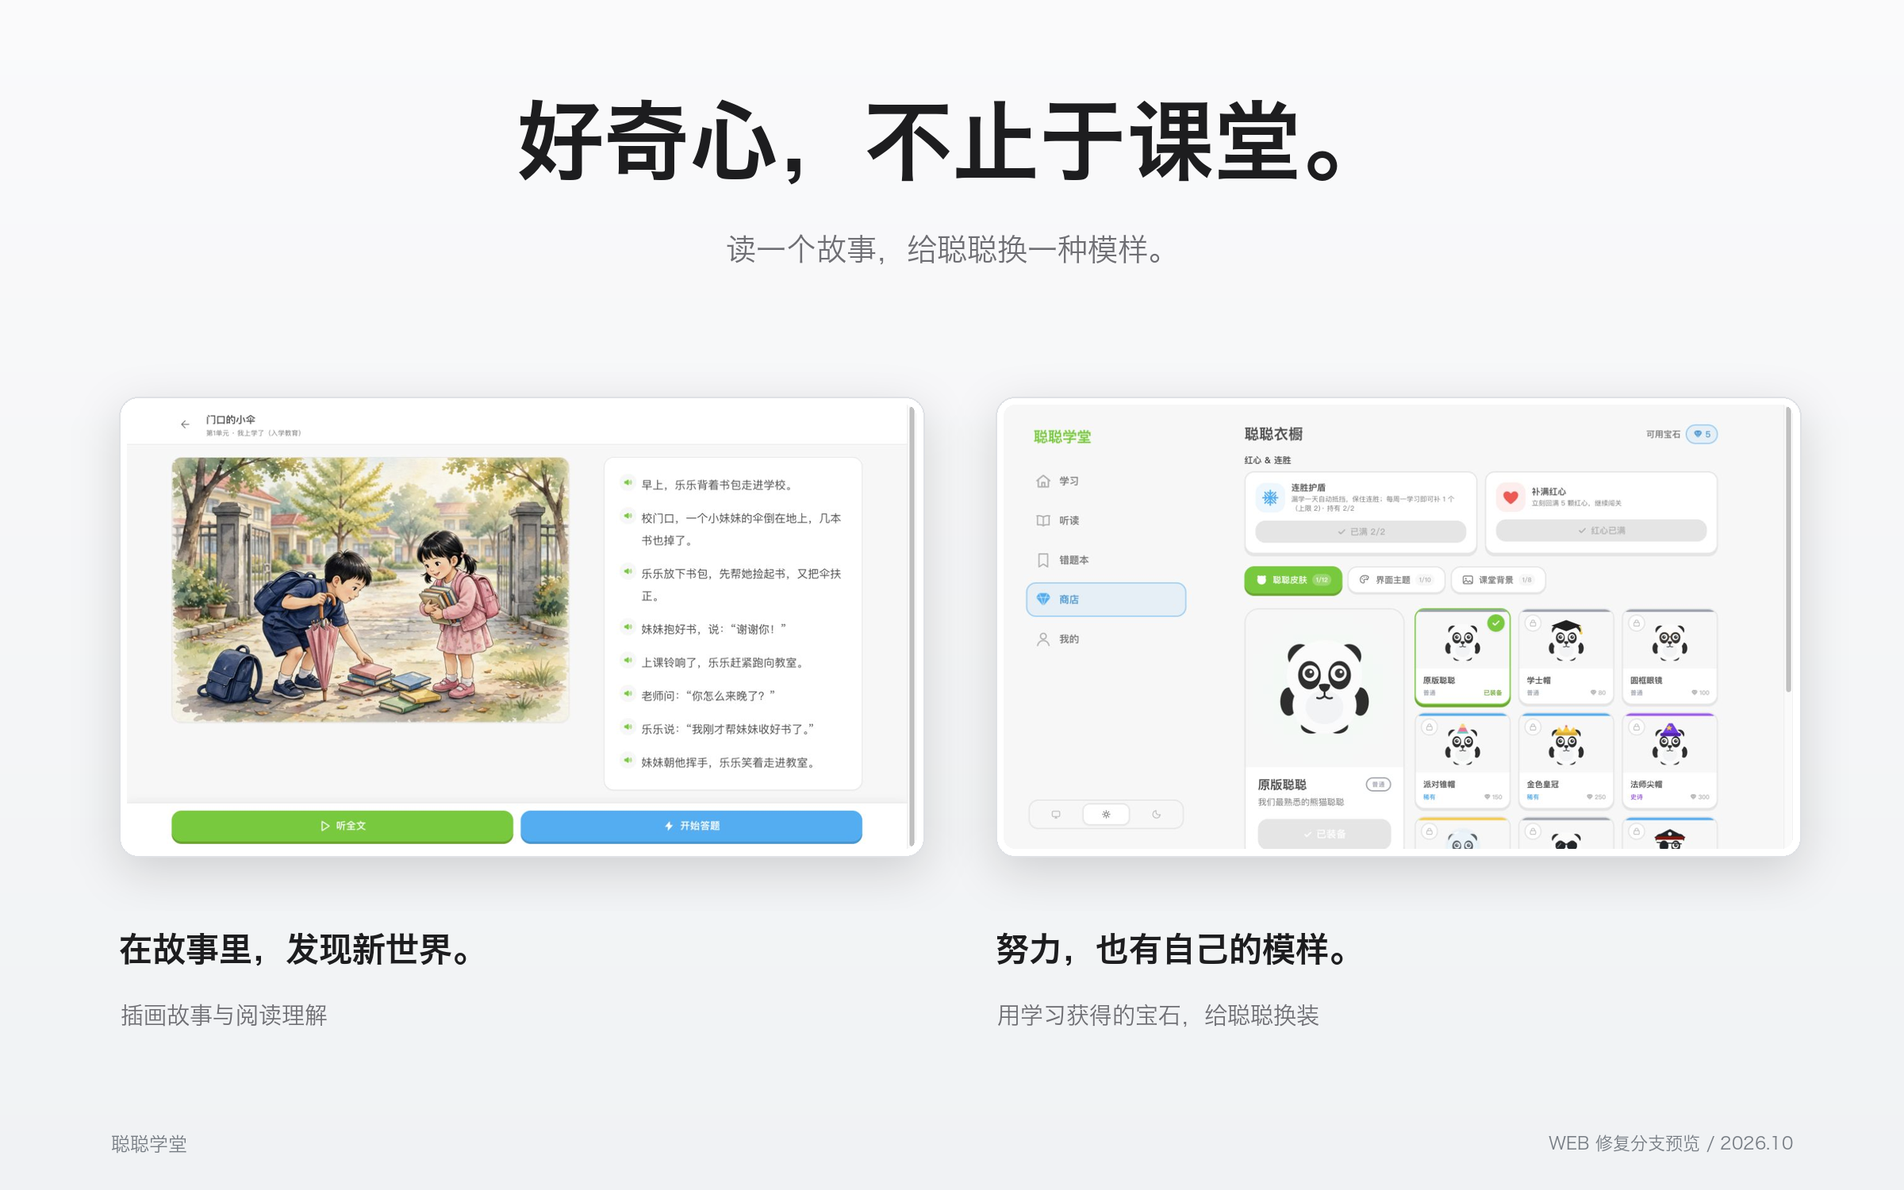
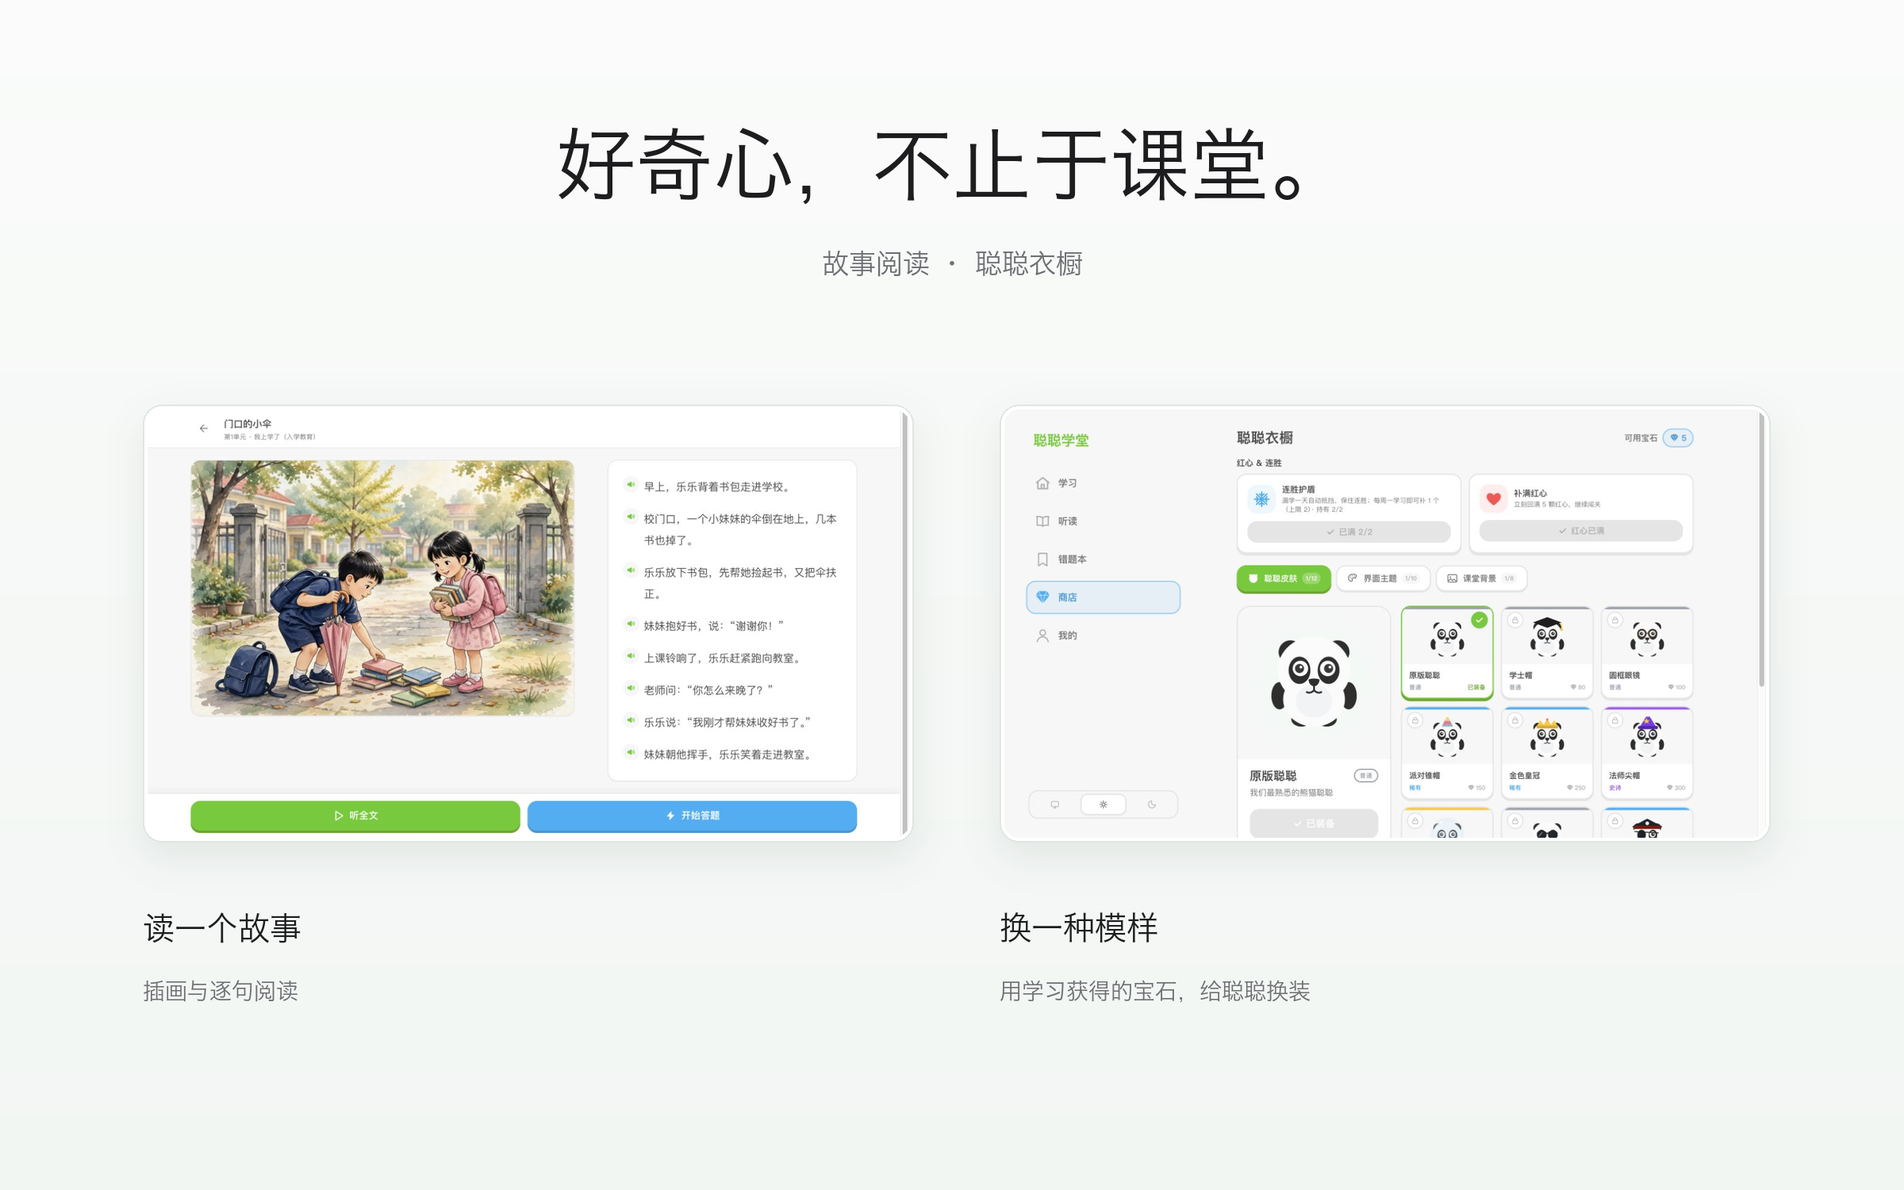
docs: refine all product posters with a light minimal design

diff --git a/docs/web-showcase.html b/docs/web-showcase.html
@@ -4,14 +4,14 @@
 :root{--paper:#f5f5f7;--ink:#1d1d1f;--muted:#6e6e73;--line:#e4e4e8}*{box-sizing:border-box}body{margin:0;background:#fff;color:var(--ink);font:16px/1.75 -apple-system,BlinkMacSystemFont,"PingFang SC","Microsoft YaHei",sans-serif;-webkit-font-smoothing:antialiased}a{color:inherit;text-underline-offset:4px}button{font:inherit;cursor:pointer}button:focus-visible,a:focus-visible{outline:3px solid #527c39;outline-offset:5px}.wrap{max-width:1256px;margin:auto;padding:0 36px}header{display:flex;align-items:center;justify-content:space-between;gap:24px;min-height:88px;font-size:13px}.brand{font-weight:650;letter-spacing:.04em}nav{display:flex;gap:28px}nav a{text-decoration:none;color:var(--muted)}.intro{padding-top:62px;padding-bottom:36px}.eyebrow{font-size:11px;letter-spacing:.18em;color:var(--muted);font-weight:650}h1{font-size:clamp(36px,5.5vw,64px);line-height:1.2;letter-spacing:-.045em;font-weight:650;margin:18px 0}h2{font-size:clamp(30px,4vw,48px);line-height:1.3;letter-spacing:-.035em;font-weight:650;margin:12px 0 16px}h3{font-size:19px;line-height:1.4;font-weight:600;margin:20px 0 7px}.lede{color:var(--muted);font-size:18px;margin:0}.poster{margin:0 0 72px}.image-button{display:block;border:0;padding:0;background:var(--paper);width:100%;border-radius:20px;overflow:hidden;line-height:0}.image-button img{display:block;width:100%;height:auto}.poster figcaption{display:flex;align-items:center;justify-content:space-between;gap:20px;font-size:13px;color:var(--muted);padding-top:16px}.poster figcaption strong{font-weight:500;color:var(--ink)}.poster figcaption a{font-size:12px}.section{padding-top:70px}.phones{display:grid;grid-template-columns:repeat(3,1fr);gap:24px;margin:38px 0 70px}.phone{margin:0;background:var(--paper);border-radius:22px;padding:30px;text-align:center}.phone .image-button{background:transparent;border-radius:16px}.phone img{width:auto;max-width:100%;height:440px;object-fit:contain;margin:auto;border-radius:16px}.phone p,.card p{font-size:14px;color:var(--muted);margin:0}.grid{display:grid;grid-template-columns:1fr 1fr;gap:48px 28px}.card{margin:0}.card .image-button{border:1px solid var(--line);border-radius:16px}.card img{aspect-ratio:1265/712;object-fit:contain}.about{margin-top:96px;border-top:1px solid var(--line);padding:36px 0 52px;font-size:13px;color:var(--muted)}.about p{max-width:850px}.about strong{color:var(--ink)}footer{padding:24px 0 34px;border-top:1px solid var(--line);display:flex;justify-content:space-between;gap:20px;font-size:12px;color:var(--muted)}dialog{border:0;background:#fff;color:var(--ink);border-radius:18px;padding:20px;max-width:min(96vw,1700px);max-height:95vh;box-shadow:0 24px 100px #0004}dialog::backdrop{background:#0d0e11cc}dialog .bar{display:flex;align-items:center;justify-content:space-between;gap:24px;margin-bottom:16px;font-size:14px}dialog p{margin:0}dialog button{border:1px solid var(--line);border-radius:10px;background:var(--paper);padding:7px 16px;min-height:44px}dialog img{display:block;max-width:100%;max-height:80vh;object-fit:contain;margin:auto}
 @media(max-width:720px){.wrap{padding-left:22px;padding-right:22px}header{min-height:74px;font-size:12px;gap:10px}nav{gap:16px}.brand{letter-spacing:0}.intro{padding-top:34px;padding-bottom:28px}.lede{font-size:16px}.poster{margin-bottom:40px}.poster .image-button{border-radius:12px}.poster figcaption{font-size:11px;padding-top:11px}.poster figcaption a{font-size:11px}.section{padding-top:34px}.phones{grid-template-columns:1fr;gap:16px;margin-bottom:50px}.phone{display:grid;grid-template-columns:1fr 1fr;gap:20px;padding:22px;text-align:left;align-items:center}.phone img{width:100%;height:auto;max-height:350px}.phone h3{margin-top:0;font-size:18px}.phone p{font-size:13px}.grid{grid-template-columns:1fr;gap:32px}.about{margin-top:60px}footer{display:block}footer span{display:block;margin:8px 0}}
 </style></head><body>
-<header class="wrap"><span class="brand">聪聪学堂 / CHINASTUDYFREE</span><nav aria-label="页面导航"><a href="#posters">海报</a><a href="#screens">界面</a><a href="#about">关于</a></nav></header>
-<main class="wrap"><div class="intro"><div class="eyebrow">THE PRODUCT COLLECTION</div><h1>好奇心，自有天地。</h1><p class="lede">聪聪学堂。小学全科，免费开源。</p></div><section id="posters" aria-label="产品海报">
+<header class="wrap"><span class="brand">聪聪学堂</span><nav aria-label="页面导航"><a href="#posters">海报</a><a href="#screens">界面</a><a href="#about">关于</a></nav></header>
+<main class="wrap"><div class="intro"><h1>好奇心，自有天地。</h1><p class="lede">聪聪学堂。小学全科，免费开源。</p></div><section id="posters" aria-label="产品海报">
 <figure class="poster"><button class="image-button" data-title="聪聪学堂 · 品牌横幅" aria-label="放大聪聪学堂品牌横幅"><img src="banner.svg" width="1600" height="500" alt="聪聪学堂：学习，从好奇心开始。小学全科，免费开源。"></button><figcaption><strong>品牌横幅</strong><a href="banner.svg" download>可缩放 SVG · 1600 × 500</a></figcaption></figure>
 <figure class="poster"><button class="image-button" data-title="品牌主视觉" aria-label="放大品牌主视觉海报"><img src="posters/hero.png" width="2400" height="1500" alt="互动点数与即时反馈的品牌主海报" ></button><figcaption><strong>01 / 品牌主视觉</strong><a href="posters/hero.png" download>原尺寸 PNG · 2400 × 1500</a></figcaption></figure>
-<figure class="poster"><button class="image-button" data-title="学习流程" aria-label="放大学习流程海报"><img src="posters/learning.png" width="2400" height="1600" alt="从年级选择到互动点数和即时反馈" loading=lazy></button><figcaption><strong>02 / 学习流程</strong><a href="posters/learning.png" download>原尺寸 PNG · 2400 × 1600</a></figcaption></figure>
+<figure class="poster"><button class="image-button" data-title="学习流程" aria-label="放大学习流程海报"><img src="posters/learning.png" width="2400" height="1500" alt="从年级选择到互动点数和即时反馈" loading=lazy></button><figcaption><strong>02 / 学习流程</strong><a href="posters/learning.png" download>原尺寸 PNG · 2400 × 1500</a></figcaption></figure>
 <figure class="poster"><button class="image-button" data-title="课文听读" aria-label="放大课文听读海报"><img src="posters/reading.png" width="2400" height="1500" alt="课本原页与逐句听读的双屏海报" loading=lazy></button><figcaption><strong>03 / 课文听读</strong><a href="posters/reading.png" download>原尺寸 PNG · 2400 × 1500</a></figcaption></figure>
 <figure class="poster"><button class="image-button" data-title="故事与衣橱" aria-label="放大故事与衣橱海报"><img src="posters/explore.png" width="2400" height="1500" alt="课外阅读与聪聪衣橱的双画面海报" loading=lazy></button><figcaption><strong>04 / 故事与衣橱</strong><a href="posters/explore.png" download>原尺寸 PNG · 2400 × 1500</a></figcaption></figure>
-</section><section class="section" id="screens"><div class="eyebrow">THE REAL INTERFACE</div><h2>真实界面，细节可见。</h2><p class="lede">保留原始截图。点击，查看大图。</p><div class="phones">
+</section><section class="section" id="screens"><h2>真实界面，细节可见。</h2><p class="lede">保留原始截图。点击，查看大图。</p><div class="phones">
 <figure class="phone"><button class="image-button" data-title="找到自己的起点 · 手机视口" aria-label="放大找到自己的起点截图"><img src="screenshots/web/01-onboarding.jpg" width="390" height="844" alt="找到自己的起点" loading="lazy"></button><figcaption><h3>找到自己的起点</h3><p>选择年级，开始探索</p></figcaption></figure>
 <figure class="phone"><button class="image-button" data-title="先动手，再理解 · 手机视口" aria-label="放大先动手，再理解截图"><img src="screenshots/web/04-counting.jpg" width="390" height="844" alt="先动手，再理解" loading="lazy"></button><figcaption><h3>先动手，再理解</h3><p>点一下苹果，一个一个数</p></figcaption></figure>
 <figure class="phone"><button class="image-button" data-title="知道为什么 · 手机视口" aria-label="放大知道为什么截图"><img src="screenshots/web/05-feedback.jpg" width="390" height="844" alt="知道为什么" loading="lazy"></button><figcaption><h3>知道为什么</h3><p>答案之外，也有具体的解释</p></figcaption></figure>

diff --git a/scripts/media/build_showcase.py b/scripts/media/build_showcase.py
@@ -35,111 +35,122 @@ def font(size, bold=False, latin=False):
 
 
 def text(im, xy, value, size, bold=False, color=INK, anchor="lt", latin=False):
-    ImageDraw.Draw(im).text(xy, value, font=font(size, bold, latin), fill=color, anchor=anchor)
-
-
-def centered(im, y, value, size, bold=False, color=INK):
-    text(im, (W // 2, y), value, size, bold, color, "mt")
-
-
-def background(dark=False, height=H):
-    im = Image.new("RGB", (W, height))
     draw = ImageDraw.Draw(im)
-    a, b = ((17, 19, 22), (30, 35, 40)) if dark else ((250, 250, 251), (240, 242, 244))
-    for y in range(height):
-        t = y / max(1, height - 1)
+    face = font(size, bold, latin)
+    bounds = draw.textbbox(xy, value, font=face, anchor=anchor)
+    if not (0 <= bounds[0] < bounds[2] <= im.width and 0 <= bounds[1] < bounds[3] <= im.height):
+        raise ValueError(f"Text leaves poster: {value!r} {bounds}")
+    draw.text(xy, value, font=face, fill=color, anchor=anchor)
+
+
+def centered(im, y, value, size, color=INK):
+    text(im, (W // 2, y), value, size, color=color, anchor="mt")
+
+
+def background():
+    # The same quiet, warm-white surface as the README banner.
+    im = Image.new("RGB", (W, H))
+    draw = ImageDraw.Draw(im)
+    a, b = (250, 251, 250), (242, 246, 243)
+    for y in range(H):
+        t = y / (H - 1)
         col = tuple(round(start + (end - start) * t) for start, end in zip(a, b))
         draw.line((0, y, W, y), fill=col)
     return im.convert("RGBA")
 
 
-def frame(name, width=None, height=None, phone=False, dark=False):
-    src = Image.open(SHOTS / name).convert("RGB")
-    if height:
+def display(im, name, x, y, width=None, height=None):
+    # A fine white edge replaces the heavy simulated device bezel. The entire
+    # source image is fitted proportionally; no UI is covered or reframed.
+    with Image.open(SHOTS / name) as original:
+        src = original.convert("RGB")
+    if height is not None:
         width = round(src.width * height / src.height)
-    else:
+    elif width is not None:
         height = round(src.height * width / src.width)
-    inset, margin = (12, 68) if phone else (10, 68)
+    else:
+        raise ValueError("A display width or height is required")
+    inset, margin, radius = 6, 72, 24
     outer_w, outer_h = width + 2 * inset, height + 2 * inset
-    layer = Image.new("RGBA", (outer_w + margin * 2, outer_h + margin * 2))
-    radius = 42 if phone else 24
+    if x < 48 or y < 48 or x + outer_w > W - 48 or y + outer_h > H - 48:
+        raise ValueError(f"Image leaves poster safe area: {name}")
+    layer = Image.new("RGBA", (outer_w + 2 * margin, outer_h + 2 * margin))
     mask = Image.new("L", layer.size)
-    ImageDraw.Draw(mask).rounded_rectangle((margin, margin + 18, margin + outer_w, margin + outer_h + 18), radius, fill=80 if dark else 38)
-    shadow = Image.new("RGBA", layer.size, (0, 0, 0, 0))
-    shadow.putalpha(mask.filter(ImageFilter.GaussianBlur(28)))
+    ImageDraw.Draw(mask).rounded_rectangle(
+        (margin, margin + 18, margin + outer_w, margin + outer_h + 18),
+        radius, fill=22,
+    )
+    shadow = Image.new("RGBA", layer.size, (33, 49, 38, 0))
+    shadow.putalpha(mask.filter(ImageFilter.GaussianBlur(24)))
     layer.alpha_composite(shadow)
-    draw = ImageDraw.Draw(layer)
-    draw.rounded_rectangle((margin, margin, margin + outer_w, margin + outer_h), radius, fill="#202226" if phone else "#ffffff", outline="#55575b" if phone else "#dfe1e5", width=2)
+    ImageDraw.Draw(layer).rounded_rectangle(
+        (margin, margin, margin + outer_w - 1, margin + outer_h - 1),
+        radius, fill="#ffffff", outline="#e0e6e1", width=2,
+    )
     screen = src.resize((width, height), Image.Resampling.LANCZOS).convert("RGBA")
     clip = Image.new("L", screen.size)
-    ImageDraw.Draw(clip).rounded_rectangle((0, 0, width - 1, height - 1), max(8, radius - inset), fill=255)
+    ImageDraw.Draw(clip).rounded_rectangle(
+        (0, 0, width - 1, height - 1), radius - inset, fill=255,
+    )
     screen.putalpha(clip)
     layer.alpha_composite(screen, (margin + inset, margin + inset))
-    return layer
-
-
-def display(im, name, x, y, width=None, height=None, phone=False, dark=False):
-    # Coordinates locate the visible frame; extra room around it is shadow only.
-    layer = frame(name, width, height, phone, dark)
-    im.alpha_composite(layer, (x - 68, y - 68))
-
-
-def footer(im, dark=False):
-    color = "#8c929b" if dark else "#777d84"
-    text(im, (140, im.height - 70), "聪聪学堂", 24, color=color)
-    text(im, (W - 140, im.height - 70), "WEB 修复分支预览 / 2026.10", 22, color=color, anchor="rt")
+    im.alpha_composite(layer, (x - margin, y - margin))
+    return outer_w, outer_h
 
 
 def save(im, name):
     im.convert("RGB").save(POSTERS / name, optimize=True)
 
 
+def heading(im, title, subtitle):
+    centered(im, 160, title, 100)
+    centered(im, 315, subtitle, 34, color=MUTED)
+
+
 def hero():
     im = background()
-    text(im, (140, 122), "CHINASTUDYFREE", 27, latin=True)
-    text(im, (135, 360), "学习，", 140, True)
-    text(im, (135, 540), "从好奇心开始。", 140, True)
-    text(im, (143, 810), "小学全科。免费，开源。", 45, color=MUTED)
-    text(im, (145, 950), "互动练习    ·    逐句听读    ·    自主探索", 29, color=MUTED)
-    display(im, "04-counting.jpg", 1285, 230, height=1040, phone=True)
-    display(im, "05-feedback.jpg", 1840, 405, height=890, phone=True)
-    footer(im)
+    text(im, (180, 210), "聪聪学堂", 32, color=MUTED)
+    text(im, (174, 445), "学习，", 124)
+    text(im, (174, 615), "从好奇心开始。", 124)
+    text(im, (180, 840), "互动练习 · 逐句听读 · 自主探索", 32, color=MUTED)
+    text(im, (180, 1060), "小学全科 / 免费开源", 28, color=MUTED)
+    display(im, "04-counting.jpg", 1240, 285, height=960)
+    display(im, "05-feedback.jpg", 1780, 465, height=850)
     save(im, "hero.png")
 
 
 def learning():
-    im = background(height=1600)
-    centered(im, 115, "从第一步，到小小的进步。", 100, True)
-    centered(im, 280, "选年级，动手数，再看懂每一次反馈。", 38, color=MUTED)
-    specs = [("01-onboarding.jpg", 420, "找到起点"), ("04-counting.jpg", 985, "亲手探索"), ("05-feedback.jpg", 1550, "看懂为什么")]
-    for name, x, caption in specs:
-        display(im, name, x, 420, height=960, phone=True)
-        text(im, (x + 233, 1430), caption, 35, True, anchor="mt")
-    footer(im)
+    im = background()
+    heading(im, "每一步，都有小小的进步。", "选年级，动手数，再看懂为什么。")
+    specs = [("01-onboarding.jpg", 540, "找到起点"),
+             ("04-counting.jpg", 1200, "亲手探索"),
+             ("05-feedback.jpg", 1860, "看懂为什么")]
+    for name, center_x, caption in specs:
+        height = 800
+        with Image.open(SHOTS / name) as src:
+            outer_w = round(src.width * height / src.height) + 12
+        display(im, name, center_x - outer_w // 2, 470, height=height)
+        text(im, (center_x, 1350), caption, 32, anchor="mt", color=MUTED)
     save(im, "learning.png")
 
 
 def reading():
-    im = background(True)
-    centered(im, 125, "把课文，读进心里。", 110, True, "#f5f5f7")
-    centered(im, 295, "课本原页。逐句听读。", 38, color="#a1a1a6")
-    display(im, "06-reading.jpg", 150, 490, width=1550, dark=True)
-    display(im, "06-reading-mobile.jpg", 1845, 485, height=820, phone=True, dark=True)
-    footer(im, True)
+    im = background()
+    heading(im, "让每一句，都读得懂。", "课本原页 · 逐句听读")
+    display(im, "06-reading.jpg", 180, 490, width=1480)
+    display(im, "06-reading-mobile.jpg", 1850, 440, height=860)
     save(im, "reading.png")
 
 
 def explore():
     im = background()
-    centered(im, 125, "好奇心，不止于课堂。", 110, True)
-    centered(im, 295, "读一个故事，给聪聪换一种模样。", 38, color=MUTED)
-    display(im, "08-story-reader.jpg", 150, 500, width=995)
-    display(im, "09-wardrobe.jpg", 1255, 500, width=995)
-    text(im, (150, 1175), "在故事里，发现新世界。", 42, True)
-    text(im, (1255, 1175), "努力，也有自己的模样。", 42, True)
-    text(im, (152, 1265), "插画故事与阅读理解", 29, color=MUTED)
-    text(im, (1257, 1265), "用学习获得的宝石，给聪聪换装", 29, color=MUTED)
-    footer(im)
+    heading(im, "好奇心，不止于课堂。", "故事阅读 · 聪聪衣橱")
+    display(im, "08-story-reader.jpg", 180, 510, width=960)
+    display(im, "09-wardrobe.jpg", 1260, 510, width=960)
+    text(im, (180, 1150), "读一个故事", 40)
+    text(im, (1260, 1150), "换一种模样", 40)
+    text(im, (180, 1235), "插画与逐句阅读", 28, color=MUTED)
+    text(im, (1260, 1235), "用学习获得的宝石，给聪聪换装", 28, color=MUTED)
     save(im, "explore.png")
 
 
@@ -155,7 +166,7 @@ def write_manifest():
                 pixels = [image.width, image.height]
         records.append({"path": str(path.relative_to(ROOT)), "bytes": path.stat().st_size,
                         "pixels": pixels, "sha256": hashlib.sha256(path.read_bytes()).hexdigest()})
-    data = {"date": "2026-10-15", "format": "static product posters and intact browser screenshots",
+    data = {"date": "2026-10-15", "artwork_updated": "2026-10-16", "format": "static product posters and intact browser screenshots",
             "branch": "codex/ux-quality-repairs", "screenshot_base_commit": "acde104e22321d4e0f84764fc62fd158a324a05f",
             "release_state": "unmerged; not deployed", "css_viewports": {"desktop": [1280,720], "mobile": [390,844]},
             "notes": ["Poster typography and framing are editorial; UI content is not altered.",

diff --git a/docs/showcase/README.md b/docs/showcase/README.md
@@ -1,12 +1,12 @@
 # 聪聪学堂 · 静态产品展示
 
-采用简洁字重、黑白灰、大留白和轻阴影，只制作静态海报与真实截图。横幅采用可缩放SVG，海报为高分辨率、无损PNG，可直接用于README、介绍页或演示文档。无视频、动图、配乐或播放组件。
+统一采用浅色背景、常规字重、大留白和细边浅影，只制作静态海报与真实截图。四张海报均为2400×1500，画面不添加英文品牌名或工程备注。横幅采用可缩放SVG，海报为高分辨率、无损PNG，可直接用于README、介绍页或演示文档。无视频、动图、配乐或播放组件。
 
 | 海报 | 尺寸 | 内容 |
 | --- | --- | --- |
 | [README 品牌横幅](../banner.svg) | 1600×500 · SVG | 聪聪学堂与熊猫聪聪 |
 | [品牌主视觉](../posters/hero.png) | 2400×1500 | 学习，从好奇心开始 |
-| [学习流程](../posters/learning.png) | 2400×1600 | 选择年级、互动点数与答题反馈 |
+| [学习流程](../posters/learning.png) | 2400×1500 | 选择年级、互动点数与答题反馈 |
 | [课文听读](../posters/reading.png) | 2400×1500 | 课本原页与手机逐句听读 |
 | [故事与衣橱](../posters/explore.png) | 2400×1500 | 课外阅读与聪聪装扮 |
 
@@ -29,6 +29,8 @@ python3 scripts/media/build_showcase.py
 ```
 
 macOS默认使用本机Hiragino Sans GB与Avenir Next；Linux可安装Noto Sans CJK与DejaVu Sans，或用`--cjk-font`和`--latin-font`指定字体路径。系统字体不随仓库分发。海报和原始截图的像素尺寸及SHA256见 [素材清单](capture-manifest.json)。
+
+2026-10-16更新海报排版，原始截图保持不变。
 
 ## 画面边界
 
